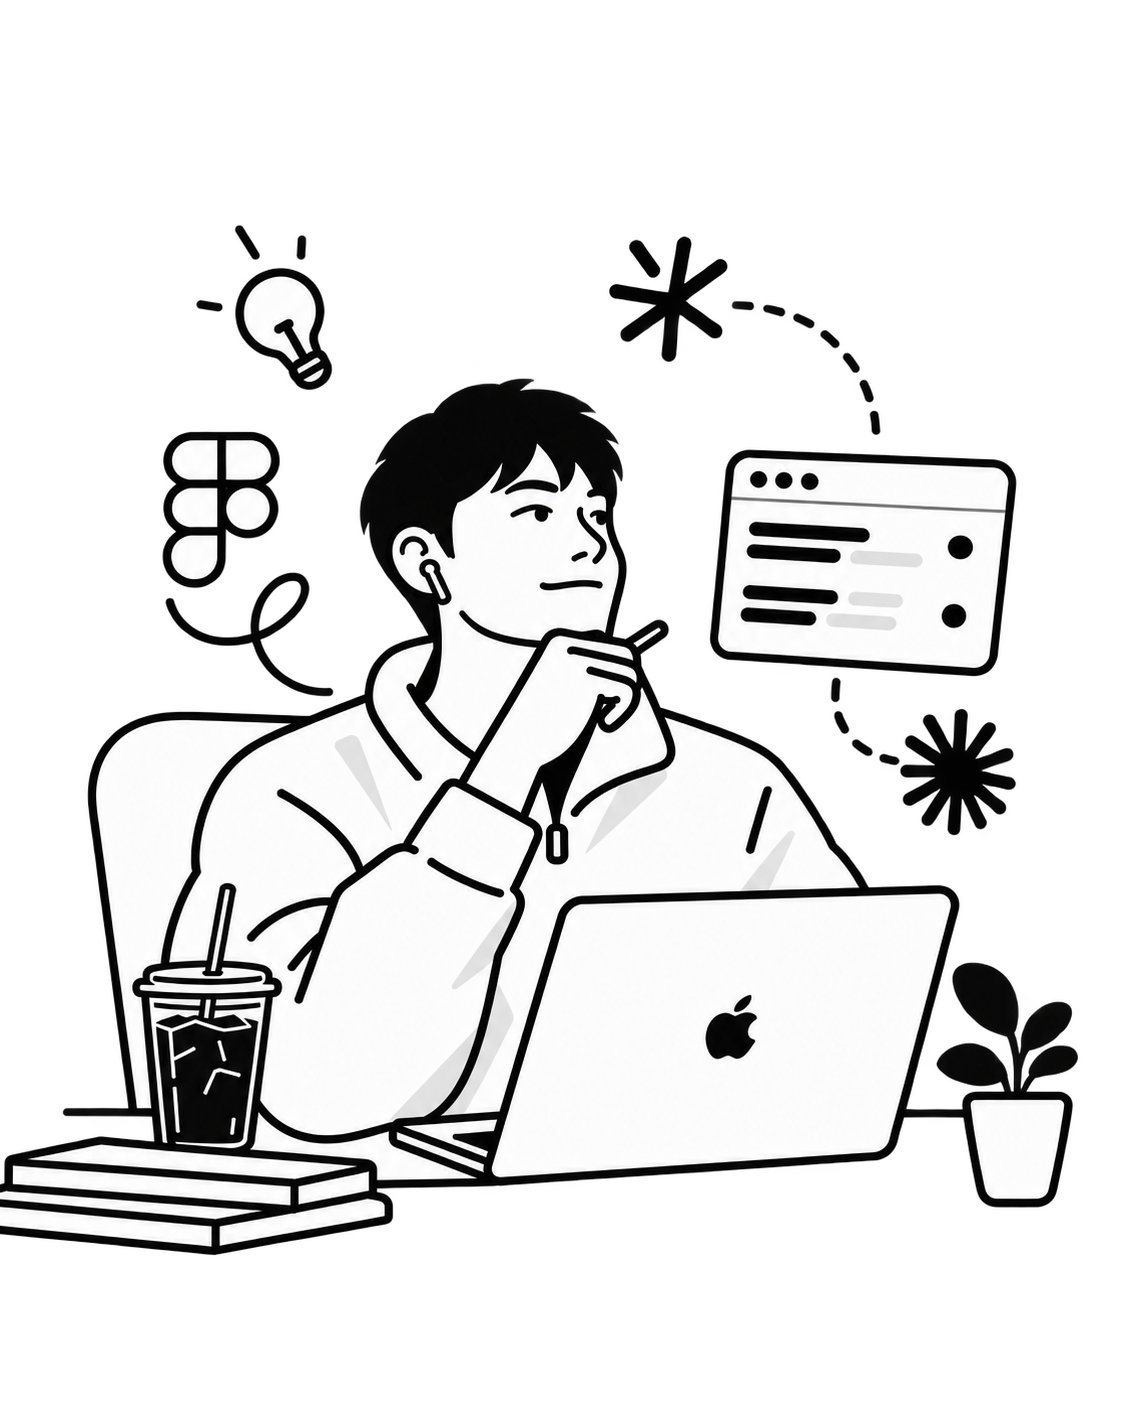
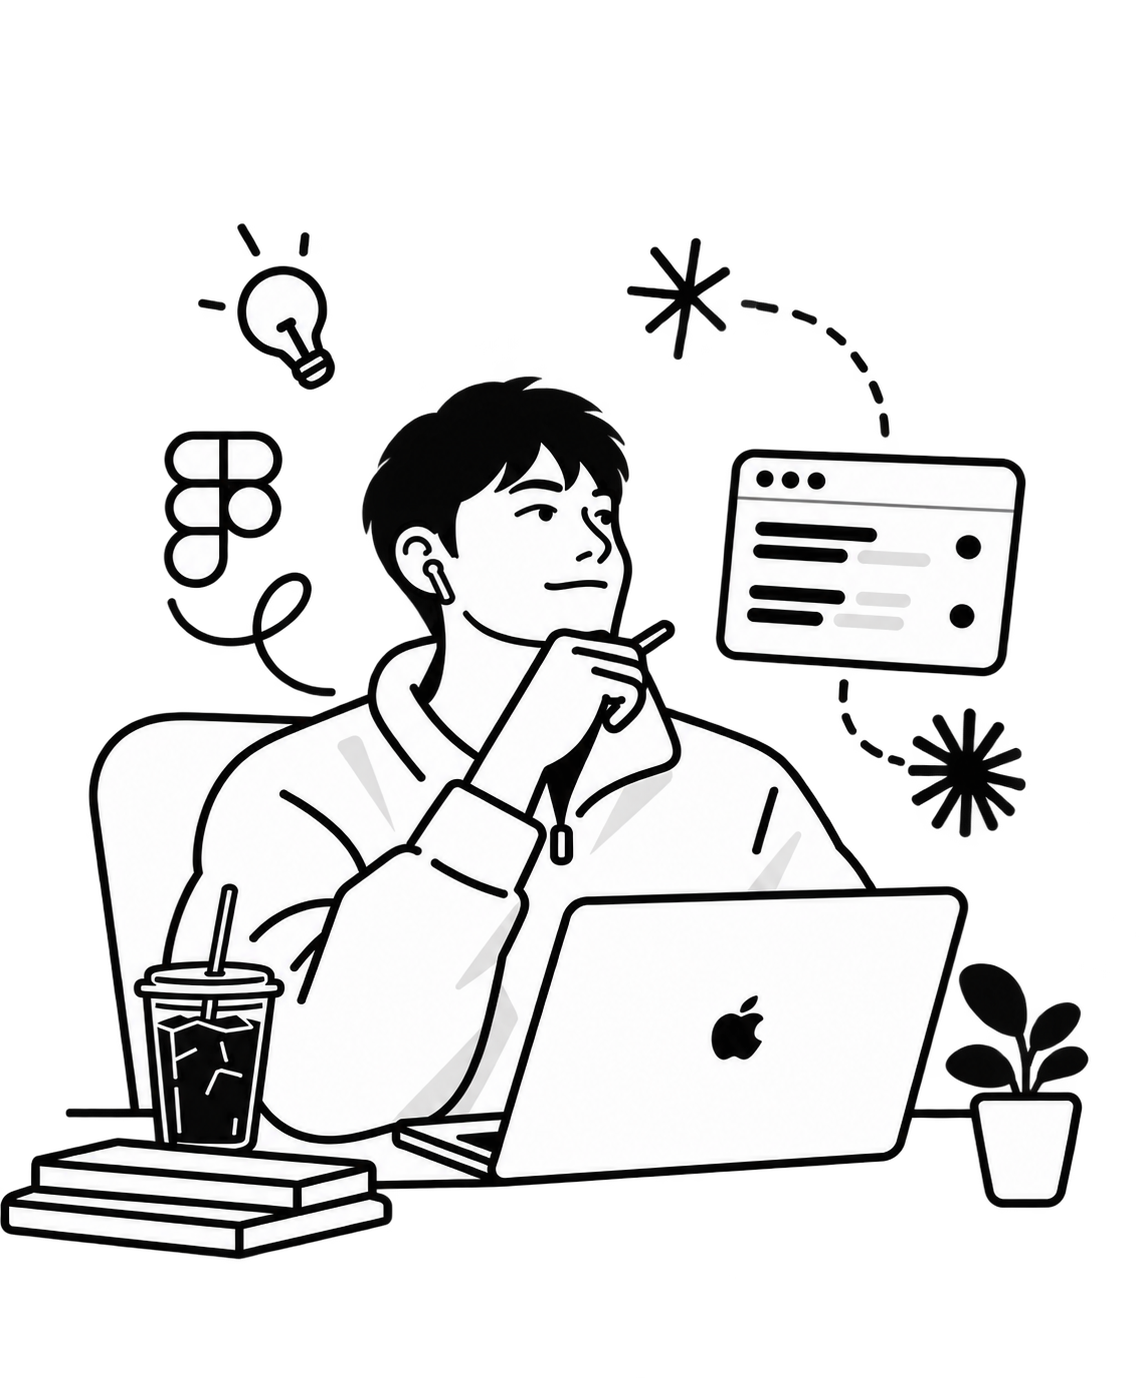
Fix project-page image alignment, add gallery lightbox, polish doodles
- Reset default <figure> margins on .proj-cover/.shot so images align
  with the text column above them
- Add a full-screen, paginated lightbox for project cover/shot images
  (click to open, prev/next, swipe, arrow keys, Esc)
- Fix mobile nav overlay background (explicit background-color/z-index
  instead of the unreliable `inset` shorthand)
- Swap in latest hero illustration
- Rework decorative section doodles: design-canvas doodle for Selected
  work, person-with-laptop doodle for My skills, notebook doodle intact
- Reorder skills list, split card/skill-bar reveal-animation timing
- Remove the submit-button arrow doodle (didn't read well); simplify
  filter pill hover state

diff --git a/style.css b/style.css
@@ -86,19 +86,6 @@ p{ margin:0; }
 .section{ padding:96px 0; border-bottom:1px solid var(--line); position:relative; }
 .section:last-of-type{ border-bottom:none; }
 .section-head{ display:flex; align-items:flex-end; justify-content:space-between; gap:24px; margin-bottom:56px; flex-wrap:wrap; }
-.scribble-doodle{ width:104px; margin-bottom:6px; }
-.scribble-doodle svg{ display:block; width:100%; height:auto; }
-.scribble-path{
-  stroke-dasharray:190;
-  stroke-dashoffset:190;
-  animation:scribble-draw 4.5s ease-in-out infinite;
-}
-@keyframes scribble-draw{
-  0%{ stroke-dashoffset:190; opacity:.9; }
-  45%{ stroke-dashoffset:0; opacity:.9; }
-  70%{ stroke-dashoffset:0; opacity:.9; }
-  100%{ stroke-dashoffset:-190; opacity:.9; }
-}
 .eyebrow{
   font-family:var(--font-mono);
   font-size:12.5px;
@@ -113,6 +100,61 @@ p{ margin:0; }
 .section-note{ font-family:var(--font-mono); font-size:12.5px; color:var(--ink-45); max-width:260px; text-align:right; }
 .section-note-img{ display:flex; justify-content:flex-end; }
 .section-note-img img{ max-width:88px; height:auto; opacity:.85; }
+
+.tools-doodle{ width:180px; height:auto; }
+.tools-marquee{ animation:tools-marquee-march 1s linear infinite; }
+@keyframes tools-marquee-march{ to{ stroke-dashoffset:-14; } }
+.tools-handle-br{ animation:tools-handle-pulse 2.8s ease-in-out infinite; transform-origin:73px 61px; }
+@keyframes tools-handle-pulse{
+  0%, 70%, 100%{ transform:scale(1); }
+  80%{ transform:scale(1.6); }
+}
+.tools-cursor{ transform:translate(76px,64px); transform-origin:76px 64px; animation:tools-cursor-drag 2.8s ease-in-out infinite; }
+@keyframes tools-cursor-drag{
+  0%, 65%{ transform:translate(76px,64px); }
+  80%{ transform:translate(84px,72px); }
+  100%{ transform:translate(76px,64px); }
+}
+
+.notepad-doodle{ width:150px; height:auto; }
+.notepad-write-line{
+  stroke-dasharray:60; stroke-dashoffset:60;
+  animation:notepad-write 3.2s ease-in-out infinite;
+}
+@keyframes notepad-write{
+  0%{ stroke-dashoffset:60; }
+  45%{ stroke-dashoffset:0; }
+  70%{ stroke-dashoffset:0; }
+  100%{ stroke-dashoffset:-60; }
+}
+.notepad-pencil{ animation:notepad-pencil-move 3.2s ease-in-out infinite; }
+@keyframes notepad-pencil-move{
+  0%{ transform:translate(28px,30px) rotate(38deg); }
+  45%{ transform:translate(84px,28px) rotate(38deg); }
+  70%{ transform:translate(84px,28px) rotate(38deg); }
+  100%{ transform:translate(28px,30px) rotate(38deg); }
+}
+.notepad-steam{ animation:notepad-steam 2.4s ease-in-out infinite; transform-origin:center; }
+.notepad-steam.s2{ animation-delay:.6s; }
+@keyframes notepad-steam{
+  0%{ opacity:.15; transform:translateY(2px); }
+  50%{ opacity:.6; transform:translateY(-3px); }
+  100%{ opacity:.15; transform:translateY(2px); }
+}
+
+.chill-doodle{ width:150px; height:auto; }
+.chill-figure{ animation:chill-bob 3.6s ease-in-out infinite; transform-origin:88px 50px; }
+@keyframes chill-bob{
+  0%, 100%{ transform:translateY(0); }
+  50%{ transform:translateY(-3px); }
+}
+.chill-sparkle{ animation:chill-twinkle 2.2s ease-in-out infinite; transform-box:fill-box; transform-origin:center; }
+.chill-sparkle.s2{ animation-delay:1.1s; }
+@keyframes chill-twinkle{
+  0%, 100%{ opacity:.25; transform:scale(.7); }
+  50%{ opacity:.9; transform:scale(1); }
+}
+
 
 /* dotted blueprint grid backdrop, used behind hero + section accents */
 .grid-bg{
@@ -226,9 +268,10 @@ p{ margin:0; }
 .filter-btn{
   font-family:var(--font-mono); font-size:12.5px; color:var(--ink-70);
   background:none; border:1.5px solid var(--line-strong); border-radius:2px;
-  padding:8px 16px; cursor:pointer; transition:background .15s ease, color .15s ease, border-color .15s ease;
+  padding:8px 16px; cursor:pointer;
+  transition:background .25s ease, color .25s ease, border-color .25s ease, transform .25s ease;
 }
-.filter-btn:hover{ border-color:var(--ink); color:var(--ink); background:var(--tint); }
+.filter-btn:hover{ border-color:var(--ink); color:var(--ink); background:var(--tint); transform:translateY(-1px); }
 .filter-btn.is-active{ background:var(--ink); border-color:var(--ink); color:var(--white); }
 .work-row.is-hidden{ display:none; }
 
@@ -336,7 +379,8 @@ p{ margin:0; }
 .spec-value{ font-family:var(--font-display); font-size:16px; font-weight:600; }
 .spec-value a{ color:var(--tint-ink); border-bottom:1px solid var(--ink); }
 
-.proj-cover{ border:1px solid var(--line-strong); overflow:hidden; margin-bottom:16px; background:var(--white); }
+.proj-cover{ margin:0 0 16px; border:1px solid var(--line-strong); overflow:hidden; background:var(--white); }
+.proj-cover img, .shot img{ cursor:zoom-in; }
 .proj-cover img{ width:100%; display:block; }
 .proj-caption{ font-family:var(--font-mono); font-size:12px; color:var(--ink-45); margin-bottom:64px; }
 
@@ -345,7 +389,7 @@ p{ margin:0; }
 .proj-block p{ color:var(--ink-70); font-size:16px; margin-bottom:14px; }
 
 .shot-grid{ display:grid; grid-template-columns:1fr; gap:20px; margin-bottom:64px; }
-.shot{ border:1px solid var(--line-strong); background:var(--white); overflow:hidden; }
+.shot{ margin:0; border:1px solid var(--line-strong); background:var(--white); overflow:hidden; }
 .shot img{ width:100%; display:block; }
 .shot figcaption{ font-family:var(--font-mono); font-size:11.5px; color:var(--ink-45); padding:10px 12px; border-top:1px solid var(--line); }
 
@@ -354,6 +398,35 @@ p{ margin:0; }
 .proj-nav a.next{ text-align:right; border-left:1px solid var(--line); padding-left:var(--gutter); padding-right:0; }
 .proj-nav .pn-label{ font-family:var(--font-mono); font-size:11.5px; color:var(--ink-45); display:block; margin-bottom:8px; }
 .proj-nav .pn-title{ font-family:var(--font-display); font-size:22px; font-weight:600; }
+
+/* ---------- image lightbox ---------- */
+.lightbox{
+  position:fixed; inset:0; z-index:200; background:rgba(10,10,11,.94);
+  display:flex; align-items:center; justify-content:center;
+  opacity:0; visibility:hidden; transition:opacity .2s ease;
+}
+.lightbox.is-open{ opacity:1; visibility:visible; }
+.lightbox-img{ max-width:90vw; max-height:84vh; object-fit:contain; border-radius:2px; }
+.lightbox-close, .lightbox-prev, .lightbox-next{
+  position:absolute; width:44px; height:44px; border-radius:50%;
+  border:1.5px solid rgba(250,250,249,.5); background:rgba(250,250,249,.08);
+  color:var(--paper); display:flex; align-items:center; justify-content:center;
+  cursor:pointer; transition:background .15s ease;
+}
+.lightbox-close:hover, .lightbox-prev:hover, .lightbox-next:hover{ background:rgba(250,250,249,.2); }
+.lightbox-close svg, .lightbox-prev svg, .lightbox-next svg{ width:18px; height:18px; }
+.lightbox-close{ top:20px; right:20px; }
+.lightbox-prev{ left:20px; top:50%; transform:translateY(-50%); }
+.lightbox-next{ right:20px; top:50%; transform:translateY(-50%); }
+.lightbox-count{
+  position:absolute; bottom:20px; left:50%; transform:translateX(-50%);
+  font-family:var(--font-mono); font-size:12px; color:rgba(250,250,249,.7);
+}
+@media (max-width:600px){
+  .lightbox-prev, .lightbox-next{ width:38px; height:38px; }
+  .lightbox-prev{ left:8px; }
+  .lightbox-next{ right:8px; }
+}
 
 /* ---------- responsive ---------- */
 @media (max-width: 880px){

diff --git a/index.html b/index.html
@@ -58,16 +58,29 @@
       <div class="wrap">
         <div class="section-head">
           <div>
-            <div class="scribble-doodle" aria-hidden="true">
-              <svg viewBox="0 0 120 56" xmlns="http://www.w3.org/2000/svg">
-                <path class="scribble-path" d="M4,40 C18,10 34,52 54,26 C72,3 88,46 100,22 C106,10 110,8 116,14"
-                      fill="none" stroke="var(--ink-45)" stroke-width="2" stroke-linecap="round" stroke-linejoin="round"/>
-              </svg>
-            </div>
             <div class="eyebrow">Selected work</div>
             <h2 class="section-title">Not just design — solutions, shipped.</h2>
           </div>
-          <div class="section-note section-note-img"><img src="Image/painting.png" alt="" loading="lazy"></div>
+          <div class="section-note section-note-img">
+            <svg class="tools-doodle" viewBox="0 0 160 100" xmlns="http://www.w3.org/2000/svg" aria-hidden="true">
+              <path d="M10,16 C48,12 100,13 149,17 C151,42 150,66 148,84 C100,88 46,87 11,83 C8,60 9,38 10,16 Z" fill="none" stroke="var(--ink-45)" stroke-width="1.6" stroke-dasharray="1 6" stroke-linecap="round"/>
+              <path d="M22,26 C40,24 58,25 70,27 C71,38 70,50 69,58 C57,60 40,59 24,57 C22,47 22,36 22,26 Z" fill="none" stroke="var(--ink-45)" stroke-width="1.8" stroke-linejoin="round"/>
+              <path d="M27,52 L37,42 L44,49 L52,39 L65,52" fill="none" stroke="var(--ink-45)" stroke-width="1.4" stroke-linejoin="round"/>
+              <rect x="30" y="66" width="30" height="12" rx="3" fill="none" stroke="var(--ink-45)" stroke-width="1.8"/>
+              <rect class="tools-marquee" x="19" y="23" width="54" height="38" fill="none" stroke="var(--ink)" stroke-width="1.6" stroke-dasharray="4 3"/>
+              <rect x="16.5" y="20.5" width="5" height="5" fill="var(--paper)" stroke="var(--ink)" stroke-width="1.4"/>
+              <rect x="70.5" y="20.5" width="5" height="5" fill="var(--paper)" stroke="var(--ink)" stroke-width="1.4"/>
+              <rect x="16.5" y="58.5" width="5" height="5" fill="var(--paper)" stroke="var(--ink)" stroke-width="1.4"/>
+              <rect class="tools-handle-br" x="70.5" y="58.5" width="5" height="5" fill="var(--paper)" stroke="var(--ink)" stroke-width="1.4"/>
+              <g class="tools-cursor">
+                <path d="M0,0 L0,15 L4,11.5 L6.5,17 L9,15.8 L6.5,10.3 L11,10 Z" fill="var(--ink)"/>
+              </g>
+              <circle cx="118" cy="34" r="6" fill="none" stroke="var(--ink)" stroke-width="1.6"/>
+              <circle cx="136" cy="34" r="6" fill="var(--tint-ink)"/>
+              <path d="M110,54 h34" stroke="var(--ink-45)" stroke-width="1.6" stroke-linecap="round"/>
+              <path d="M110,64 h22" stroke="var(--ink-45)" stroke-width="1.6" stroke-linecap="round"/>
+            </svg>
+          </div>
         </div>
         <div class="work-grid">
       <a class="work-card" data-category="Website" href="work/sope-website-redesign.html">
@@ -164,6 +177,28 @@
           <div>
             <div class="eyebrow">My skills</div>
             <h2 class="section-title">The tools behind the work.</h2>
+          </div>
+          <div class="section-note section-note-img">
+            <svg class="notepad-doodle" viewBox="0 0 160 100" xmlns="http://www.w3.org/2000/svg" aria-hidden="true">
+              <path d="M18,20 C42,16 66,18 88,22 C91,44 90,66 87,86 C63,90 38,88 16,84 C13,62 14,40 18,20 Z" fill="none" stroke="var(--ink)" stroke-width="2" stroke-linejoin="round" stroke-linecap="round"/>
+              <path d="M23,16 C24,12 29,13 29,17 C28,21 23,20 23,16 Z" fill="var(--paper)" stroke="var(--ink)" stroke-width="1.4"/>
+              <path d="M38,15 C39,11 44,12 44,16 C43,20 38,19 38,15 Z" fill="var(--paper)" stroke="var(--ink)" stroke-width="1.4"/>
+              <path d="M53,15 C54,11 59,12 59,16 C58,20 53,19 53,15 Z" fill="var(--paper)" stroke="var(--ink)" stroke-width="1.4"/>
+              <path d="M68,16 C69,12 74,13 74,17 C73,21 68,20 68,16 Z" fill="var(--paper)" stroke="var(--ink)" stroke-width="1.4"/>
+              <path d="M79,17 C80,13 85,14 85,18 C84,22 79,21 79,17 Z" fill="var(--paper)" stroke="var(--ink)" stroke-width="1.4"/>
+              <path d="M22,60 C36,57 54,61 78,59" fill="none" stroke="var(--ink-45)" stroke-width="2" stroke-linecap="round"/>
+              <path d="M22,73 C33,71 48,74 68,72" fill="none" stroke="var(--ink-45)" stroke-width="2" stroke-linecap="round"/>
+              <path class="notepad-write-line" d="M22,47 C34,45 50,48 78,46" fill="none" stroke="var(--ink)" stroke-width="2.4" stroke-linecap="round"/>
+              <g class="notepad-pencil">
+                <path d="M0,0 C4,-5 8,-9 12,-14 L17,-10 C13,-5 9,-1 4,4 Z" fill="var(--ink)"/>
+                <path d="M12,-14 L18,-20 L22,-16 L17,-10 Z" fill="var(--ink)"/>
+                <path d="M4,4 L0,8 L-2,4 Z" fill="var(--tint-ink)"/>
+              </g>
+              <path d="M102,58 C112,55 124,57 132,60 C131,69 129,78 125,85 C117,88 107,87 100,83 C99,75 99,66 102,58 Z" fill="none" stroke="var(--ink)" stroke-width="2" stroke-linejoin="round"/>
+              <path d="M131,63 C139,63 141,71 136,76 C134,79 129,80 126,78" fill="none" stroke="var(--ink)" stroke-width="1.8" stroke-linecap="round"/>
+              <path class="notepad-steam s1" d="M110,52 C107,47 111,44 109,39" fill="none" stroke="var(--ink-45)" stroke-width="1.6" stroke-linecap="round"/>
+              <path class="notepad-steam s2" d="M120,51 C123,46 119,43 121,38" fill="none" stroke="var(--ink-45)" stroke-width="1.6" stroke-linecap="round"/>
+            </svg>
           </div>
         </div>
         <div class="skills">

diff --git a/main.js b/main.js
@@ -78,7 +78,21 @@ document.addEventListener('DOMContentLoaded', () => {
         }
       });
     }, { threshold: 0.12, rootMargin: '0px 0px -6% 0px' });
-    revealTargets.forEach(el => io.observe(el));
+    // Content already on screen at load (e.g. the portfolio grid, which
+    // sits right under the header) has no scroll distance to animate over —
+    // trying to fade it in races the browser's first paint and is
+    // inconsistent across reloads/scroll-restore. Show that instantly and
+    // only animate what actually scrolls into view.
+    const viewportH = window.innerHeight;
+    revealTargets.forEach(el => {
+      const rect = el.getBoundingClientRect();
+      const alreadyVisible = rect.top < viewportH * 0.92 && rect.bottom > 0;
+      if (alreadyVisible) {
+        el.classList.add('is-visible');
+      } else {
+        io.observe(el);
+      }
+    });
   } else {
     revealTargets.forEach(el => el.classList.add('is-visible'));
   }
@@ -97,5 +111,61 @@ document.addEventListener('DOMContentLoaded', () => {
       const note = contactForm.querySelector('.contact-form-note');
       if (note) note.hidden = false;
     });
+  }
+
+  // project galleries: click a cover/shot image to open a full-screen,
+  // paginated lightbox (cover image, then every shot, in page order)
+  const galleryImgs = [...document.querySelectorAll('.proj-cover img, .shot img')];
+  if (galleryImgs.length) {
+    const lightbox = document.createElement('div');
+    lightbox.className = 'lightbox';
+    lightbox.innerHTML = `
+      <button class="lightbox-close" aria-label="Close"><svg viewBox="0 0 20 20" fill="none"><path d="M5 5L15 15M15 5L5 15" stroke="currentColor" stroke-width="1.6" stroke-linecap="round"/></svg></button>
+      <button class="lightbox-prev" aria-label="Previous"><svg viewBox="0 0 20 20" fill="none"><path d="M12 4L6 10L12 16" stroke="currentColor" stroke-width="1.6" stroke-linecap="round" stroke-linejoin="round"/></svg></button>
+      <img class="lightbox-img" src="" alt="">
+      <button class="lightbox-next" aria-label="Next"><svg viewBox="0 0 20 20" fill="none"><path d="M8 4L14 10L8 16" stroke="currentColor" stroke-width="1.6" stroke-linecap="round" stroke-linejoin="round"/></svg></button>
+      <div class="lightbox-count"></div>
+    `;
+    document.body.appendChild(lightbox);
+
+    const imgEl = lightbox.querySelector('.lightbox-img');
+    const countEl = lightbox.querySelector('.lightbox-count');
+    let current = 0;
+
+    const show = (i) => {
+      current = (i + galleryImgs.length) % galleryImgs.length;
+      imgEl.src = galleryImgs[current].src;
+      imgEl.alt = galleryImgs[current].alt || '';
+      countEl.textContent = `${current + 1} / ${galleryImgs.length}`;
+    };
+    const open = (i) => {
+      show(i);
+      lightbox.classList.add('is-open');
+      document.body.style.overflow = 'hidden';
+    };
+    const close = () => {
+      lightbox.classList.remove('is-open');
+      document.body.style.overflow = '';
+    };
+
+    galleryImgs.forEach((img, i) => img.addEventListener('click', () => open(i)));
+    lightbox.querySelector('.lightbox-close').addEventListener('click', close);
+    lightbox.querySelector('.lightbox-prev').addEventListener('click', () => show(current - 1));
+    lightbox.querySelector('.lightbox-next').addEventListener('click', () => show(current + 1));
+    lightbox.addEventListener('click', (e) => { if (e.target === lightbox) close(); });
+    document.addEventListener('keydown', (e) => {
+      if (!lightbox.classList.contains('is-open')) return;
+      if (e.key === 'Escape') close();
+      if (e.key === 'ArrowLeft') show(current - 1);
+      if (e.key === 'ArrowRight') show(current + 1);
+    });
+
+    // swipe left/right to page through on touch devices
+    let touchStartX = 0;
+    lightbox.addEventListener('touchstart', (e) => { touchStartX = e.touches[0].clientX; }, { passive: true });
+    lightbox.addEventListener('touchend', (e) => {
+      const dx = e.changedTouches[0].clientX - touchStartX;
+      if (Math.abs(dx) > 40) show(current + (dx > 0 ? -1 : 1));
+    }, { passive: true });
   }
 });
